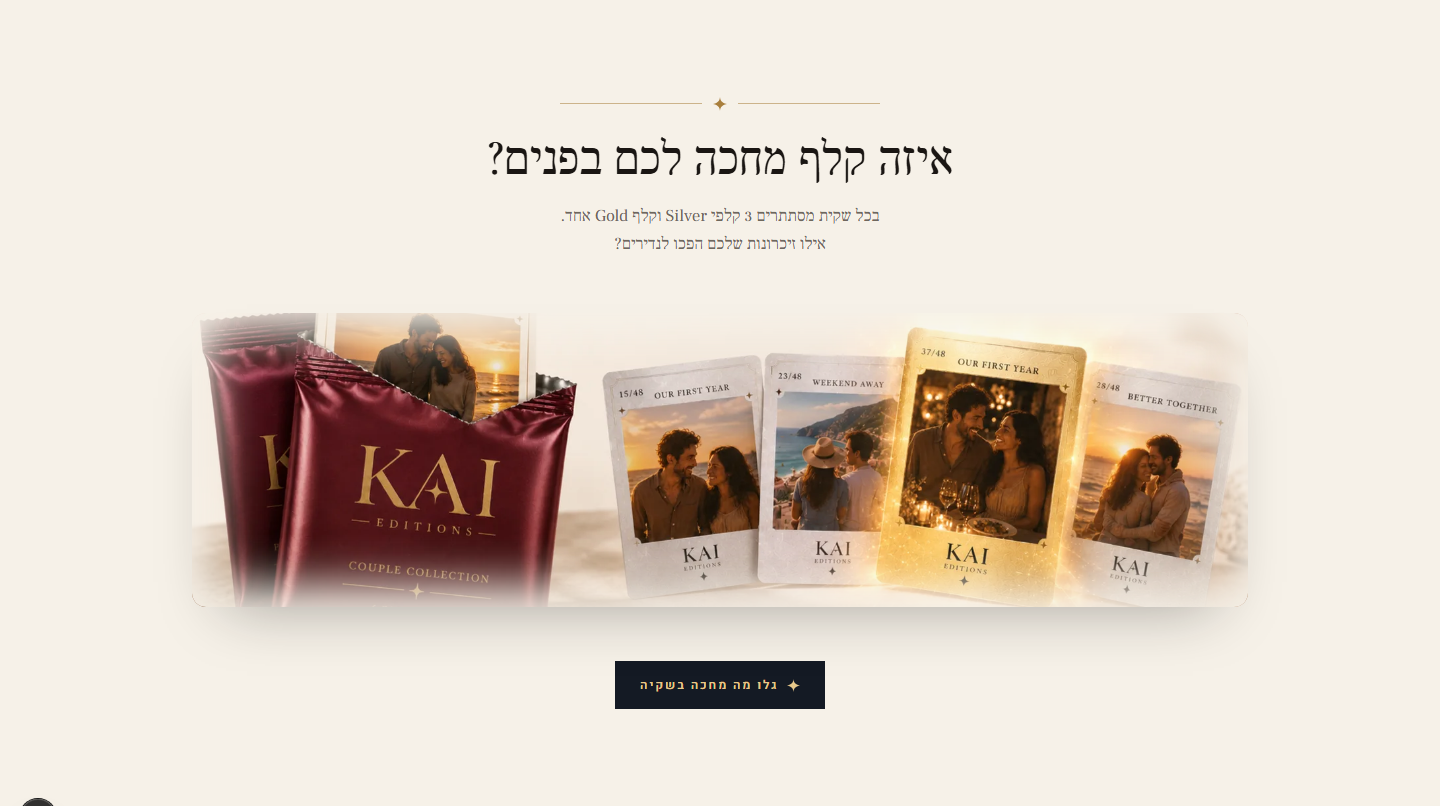
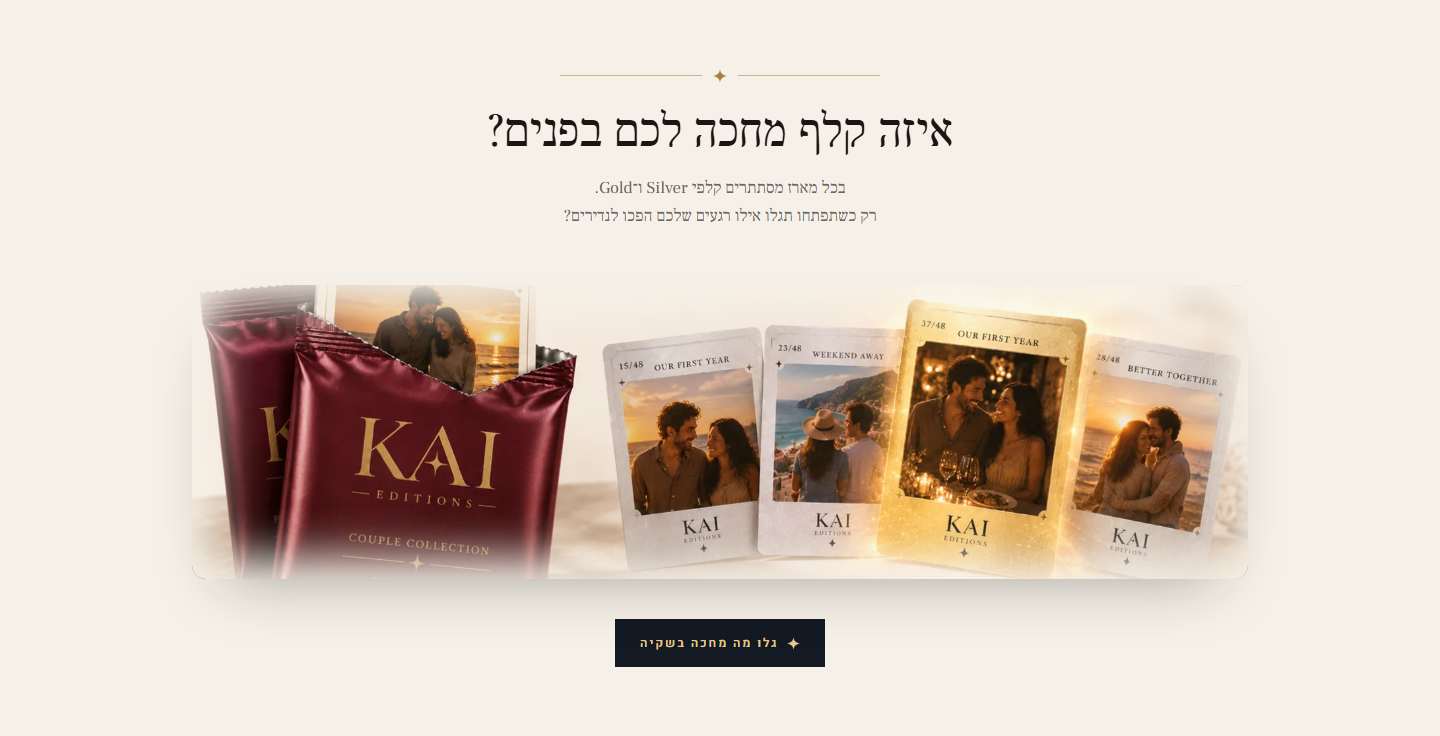
חבילת GPT: בריף מודול FAQ + צילומי מסך מרועננים (כולל Packages)
- module-faq.md חדש — בריף לאקורדיון "שאלות נפוצות" (§8): טור אחד,
  קווי hairline, +/− זהב, 11 השאלות מ-website-copy §8, פרומפט מוכן
- כל צילומי הסקשן צולמו מחדש (מרווחים מהודקים, Collections עם CTA,
  טקסט CardReveal חדש) + נוסף 09-packages
- BRIEF-for-GPT.md: §6 עודכן עם Packages, רשימת קבצים + מודולים

diff --git a/docs/design-package/module-faq.md b/docs/design-package/module-faq.md
@@ -1,0 +1,81 @@
+# מודול: "שאלות נפוצות" (FAQ) — בריף להדמיה ב-ChatGPT
+
+הדביקי ל-ChatGPT: **הקובץ הזה + `BRIEF-for-GPT.md` + צילומי המסך בתיקייה**
+(במיוחד `06-whatsinside` — שם יש רשימה ממוספרת עם קווי hairline שזה בדיוק ה-vibe;
+ו-`08-whykai` / `09-packages` לסגנון הכותרת).
+מטרה: מוקאפ דסקטופ (1440px) + מובייל (390px) למודול ה-FAQ, באותה שפה ויזואלית בדיוק.
+
+---
+
+## מה הסקשן הזה עושה
+עונה על ההתלבטויות שעוצרות אנשים לפני הזמנה. אקורדיון נקי — שאלה נפתחת בלחיצה.
+סקשן טיפוגרפי לגמרי, **בלי תמונות**. שקט, קריא, נדיב באוויר.
+
+## מבנה מוצע (בשפת KAI)
+
+```
+                       — ✦ —
+                  שאלות נפוצות                     ← כותרת עברית סריף, דיו כהה (לא זהב)
+        כל מה שחשוב לדעת לפני שמתחילים.             ← משפט אחד ink-soft, ממורכז (רשות)
+
+━━━━━━━━━━━━━━━━━━━━━━━━━━━━━━━━━━━━━━━━━━━━━━━━━━━━━━━━   ← קו hairline
+  האם אוכל לראות את העיצוב לפני ההזמנה?                −    ← שאלה סריף דיו כהה מימין, +/− זהב משמאל
+  תוכלו לראות את הקונספט לאחר שתעלו מספר תמונות              ← תשובה ink-soft, נפתחת (הראשונה פתוחה)
+  ראשונות ותענו על כמה שאלות קצרות. כדי לשמור על
+  אפקט ההפתעה, לא תראו מראש את העיצוב המלא של כל
+  הקלפים. את הקולקציה השלמה תגלו רק כשהקופסה תגיע.
+━━━━━━━━━━━━━━━━━━━━━━━━━━━━━━━━━━━━━━━━━━━━━━━━━━━━━━━━
+  כמה זמן לוקח עד שהקופסה מגיעה?                       +    ← שורה סגורה
+━━━━━━━━━━━━━━━━━━━━━━━━━━━━━━━━━━━━━━━━━━━━━━━━━━━━━━━━
+  האם התמונות עוברות עריכה באמצעות AI?                 +
+━━━━━━━━━━━━━━━━━━━━━━━━━━━━━━━━━━━━━━━━━━━━━━━━━━━━━━━━
+  … (עוד 8 שורות סגורות)
+━━━━━━━━━━━━━━━━━━━━━━━━━━━━━━━━━━━━━━━━━━━━━━━━━━━━━━━━
+```
+
+- **טור אחד**, רוחב תוכן עד ~800px, ממורכז.
+- כל שורה: קו `hairline #D8CEBE` מעל (והשורה האחרונה גם מתחת) — בדיוק כמו הרשימה ב-"מה יש בקופסה".
+- שאלה: סריף (Frank Ruhl Libre) ~1.15rem, דיו כהה `#1A1613`, מיושרת לימין.
+- כפתור פתיחה: **+ / −** דק בזהב `#A97F3D` (או chevron שמסתובב) בקצה השמאלי של השורה.
+- תשובה פתוחה: `#6E675C`, ~0.95rem, line-height ~1.7, שומרת על פסקאות. מילים ב**בולד** נשארות בולד ובצבע הדיו הכהה.
+- padding אנכי לשורה ~1.1–1.4rem. השורה הראשונה פתוחה כברירת מחדל.
+- **בלי תמונות, בלי כרטיסים, בלי רקע צבעוני.** רק שמנת, טקסט, וקווים דקים.
+- מומלץ: שורת סיום רכה מתחת לאקורדיון — "לא מצאתם תשובה? דברו איתנו ›" (ink-soft, קישור קטן). רשות.
+- מובייל: זהה, טור אחד, שאלה + +/−, טקסט קצת יותר קטן.
+
+## הטקסטים (מ-website-copy.md §8 — לא לשנות ניסוח)
+
+11 שאלות, בסדר הזה:
+
+1. **האם אוכל לראות את העיצוב לפני ההזמנה?**
+   תוכלו לראות **את הקונספט** לאחר שתעלו מספר תמונות ראשונות ותענו על כמה שאלות קצרות. כדי לשמור על אפקט ההפתעה, לא תראו מראש את העיצוב המלא של כל הקלפים. את הקולקציה השלמה תגלו רק כשהקופסה תגיע אליכם.
+2. **כמה זמן לוקח עד שהקופסה מגיעה?**
+   כל קופסת KAI מיוצרת במיוחד עבורכם. זמן הייצור והמשלוח הוא בין **14 ל-21 ימי עסקים**. אנחנו משקיעים את הזמן כדי שכל פרט יהיה מדויק, אישי ואיכותי. **כי יש הפתעות ששווה לחכות להן.**
+3. **האם התמונות עוברות עריכה באמצעות AI?**
+   לא. התמונות נשארות בדיוק כפי שהעליתם אותן. אנחנו לא משנים אנשים, הבעות או רגעים. הזיכרונות שלכם נשארים אמיתיים, בדיוק כמו שהם.
+4. **כמה תמונות צריך להעלות?**
+   מספר התמונות תלוי בחבילה שתבחרו. אפשר להתחיל עם מספר קטן של תמונות כדי לקבל את הקונספט הראשוני, ולאחר מכן להשלים את שאר התמונות לפי כמות הקלפים בחבילה. המערכת תנחה אתכם לאורך התהליך.
+5. **האם לוקח הרבה זמן להעלות את התמונות ולהשלים את ההזמנה?**
+   ממש לא. יצרנו את התהליך כך שתוך כמה דקות תוכלו לבחור קולקציה, להעלות תמונות, לענות על כמה שאלות קצרות ולהתחיל ליצור את חוויית KAI שלכם. המערכת גם יכולה לעזור לכם בניסוח הברכה האישית.
+6. **מה מבדיל את KAI מאלבום תמונות רגיל?**
+   אלבום רגיל מציג תמונות. KAI הופכת את התמונות לחוויית גילוי. הקלפים מגיעים בחפיסות סגורות ובסדר אקראי, עם קלפי Silver ו-Gold מיוחדים, ברכה אישית, אלבום ואלמנטים של הפתעה ואיסוף. והכי חשוב — פותחים יחד ומגלים כל זיכרון מחדש.
+7. **אפשר לשלוח את KAI ישירות כמתנה?**
+   כן. אפשר לשלוח את הקופסה ישירות לכתובת של מי שמקבל את המתנה, להוסיף ברכה אישית, ולתת להם לבחור מתי לפתוח ולגלות.
+8. **אפשר להזמין חפיסות נוספות בעתיד?**
+   כן. הקולקציה שלכם לא חייבת להסתיים בקופסה הראשונה. אפשר להזמין חפיסות נוספות ולהמשיך להוסיף זיכרונות חדשים. האלבום מגיע עם מקום להרחבת הקולקציה, כך שהיא יכולה לגדול יחד עם הסיפור שלכם.
+9. **מה קורה לתמונות שאני מעלה?**
+   התמונות משמשות אך ורק ליצירת הקולקציה שלכם. לאחר שהקופסה מיוצרת ונשלחת, התמונות נמחקות ממאגר המידע שלנו ואינן נשמרות. **הזיכרונות שלכם שייכים רק לכם.**
+10. **מה הופך את KAI למתנה מיוחדת?**
+    KAI היא לא עוד מתנה חד-פעמית. זו חוויה שנבנית חפיסה אחר חפיסה — פותחים יחד, מגלים זיכרונות מחדש ומבלים זמן עם מי שיקר לכם. בסוף זו לא רק קופסה, אלא הזמנה לעצור רגע ולחוות מחדש את הסיפור שלכם.
+
+> להדמיה מספיק להראות 1–2 שאלות פתוחות ואת השאר סגורות. כל התשובות המלאות ב-website-copy.md §8.
+> תת-הכותרת "כל מה שחשוב לדעת לפני שמתחילים." היא הצעה — אפשר בלי תת-כותרת בכלל.
+
+## פרומפט מוכן
+
+> זהו המותג KAI EDITIONS. מצורף: הבריף הכללי + צילומי מסך של האתר החי.
+> עצב מוקאפ דסקטופ (1440px) + מובייל (390px) למודול **"שאלות נפוצות"** (FAQ), באותה שפה ויזואלית:
+> רקע שמנת `#F6F1E8`, טקסט דיו `#1A1613` ו-`#6E675C`, הדגשת זהב אחת `#A97F3D`, כותרת עברית סריף כהה (Frank Ruhl Libre), עברית RTL, קו-כוכב ✦ ממורכז בין כותרת לפסקה, הרבה אוויר.
+> פריסה: **אקורדיון בטור אחד**, רוחב עד ~800px ממורכז. כל שאלה בשורה עם קו hairline דק מעל (כמו הרשימה ב"מה יש בקופסה"), שאלה בסריף מימין, כפתור **+ / −** דק בזהב משמאל. השורה הראשונה פתוחה עם התשובה ב-`#6E675C`, השאר סגורות.
+> **בלי תמונות, בלי כרטיסים, בלי רקע צבעוני** — סקשן טיפוגרפי נקי בלבד.
+> השתמש בטקסטים המצורפים בלבד. אל תמציא שאלות, נתונים או תשובות חדשות.

diff --git a/docs/design-package/BRIEF-for-GPT.md b/docs/design-package/BRIEF-for-GPT.md
@@ -12,8 +12,9 @@ Paste this whole file into ChatGPT **together with the screenshots in this folde
 | `06-whatsinside.png` | What's Inside the Box (7-item list + flat-lay) |
 | `07-cardreveal.png` | "איזה קלף מחכה לכם בפנים?" (packs + card fan + gold card) |
 | `08-whykai.png` | Why KAI / "זיכרונות שחוזרים לחיים" (3 columns) |
-| `09-header.png` | header close-up (logo + nav + CTA) |
-| `10-mobile-full.jpg` | the whole homepage on mobile (390px) |
+| `09-packages.png` | "בחרו את הקולקציה…" — 3 price cards, middle featured |
+| `10-header.png` | header close-up (logo + nav + CTA) |
+| `11-mobile-full.jpg` | the whole homepage on mobile (390px) |
 
 Then ask it to design the next section's mockup in the exact same style.
 The site is live-built in Next.js; these screenshots are the current real state.
@@ -114,6 +115,7 @@ Body ≈ 1.05rem, line-height ~1.7.
 - **What's Inside the Box** (`06-whatsinside.png`) — centered star-divider + dark Hebrew serif heading "מה מחכה בתוך הקופסה" + 1-line subtitle. Two columns: a **contained flat-lay photo** of the open box (left, rounded, soft shadow) and a **numbered list of 7 items** (right, RTL): each row = gold serif numeral + short vertical gold rule + serif title + one-line soft description + small gold line-icon, hairlines between rows.
 - **"איזה קלף מחכה לכם בפנים?"** (`07-cardreveal.png`) — centered star-divider + dark Hebrew serif heading + 2-line subtitle. Then one wide **contained scene** (soft feathered edges on cream): two burgundy KAI packs on the left (front one open, a card sliding out) and a fan of **4 collectible cards** on the right — 3 silver-framed + **1 gold-framed card that glows** with a warm sparkle. Then a centered dark CTA "✦ גלו מה מחכה בשקיה". (This replaced an earlier small Regular/Silver/Gold strip.)
 - **Why KAI** (`08-whykai.png`) — centered star-divider + dark Hebrew serif heading "זיכרונות שחוזרים לחיים" + 1-line subtitle. **3 columns**, thin vertical hairlines between: each = contained 4:3 photo, small gold ✦/line icon, bold serif title (לרגש / לאסוף את הסיפור / לשמור אמיתי), one bold sentence, one soft sentence. RTL order (לרגש rightmost). Ends with a centered star-divider + dark CTA "✦ צרו Collection".
+- **Packages** (`09-packages.png`) — centered star-divider + dark Hebrew serif heading "בחרו את הקולקציה שמתאימה לסיפור שלכם" + 1-line subtitle. **3 price cards** on ivory `#FFFDF8` with hairline border, RTL order: הרגעים שלנו (right, ₪249) · הסיפור שלנו (center, **featured** — gold border, "✦ מומלץ" pill on the top edge, gold-filled CTA, slightly raised) · הזכרונות שלנו (left, ₪349). Each card: a **contained photo of the burgundy KAI box** at the top, then serif name, quantity line ("48 קלפים · 8 חפיסות"), big gold price, short gold ✦ divider, a "כולל" list (small gold ✦ bullets), and a "✦ צרו Collection" CTA. Two centered soft lines below.
 
 > **Heading rule:** English feature names ("The Collections", "Card Tiers") → **gold** serif. Actual Hebrew section titles ("איך זה עובד", "מה מחכה בתוך הקופסה") → large **dark ink** serif. Pick one per section, not both.
 
@@ -140,6 +142,7 @@ Body ≈ 1.05rem, line-height ~1.7.
 - `module-whats-inside.md` — "מה מחכה בתוך הקופסה" — ✅ built
 - `module-why-kai.md` — "זיכרונות שחוזרים לחיים" — ✅ built
 - `module-packages.md` — "החבילות" / מחירון (§7) — ✅ built
+- `module-faq.md` — "שאלות נפוצות" (§8) — ⬅ **next**
 
 ---
 
